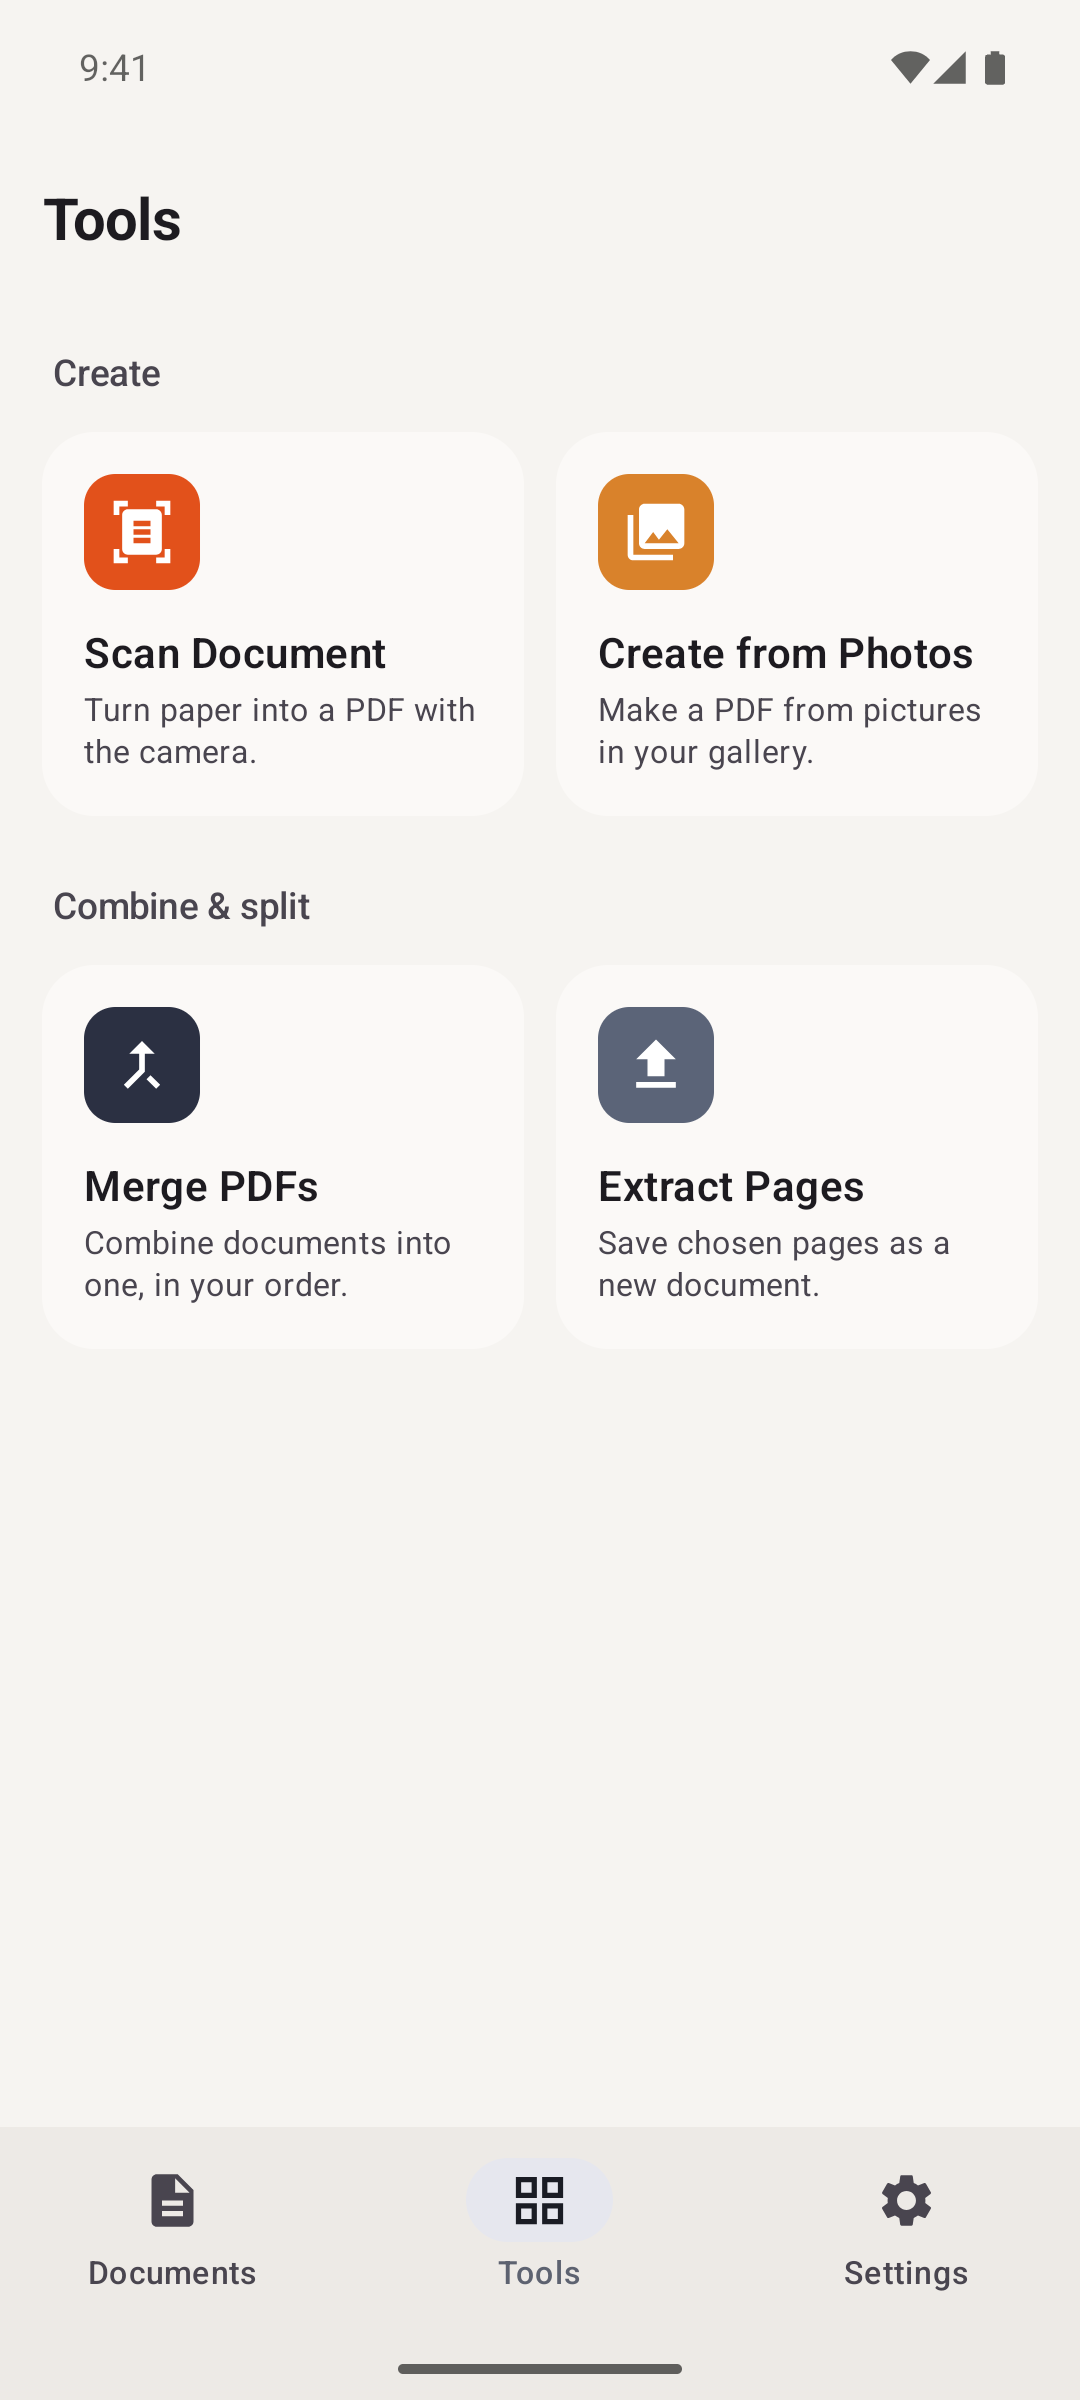
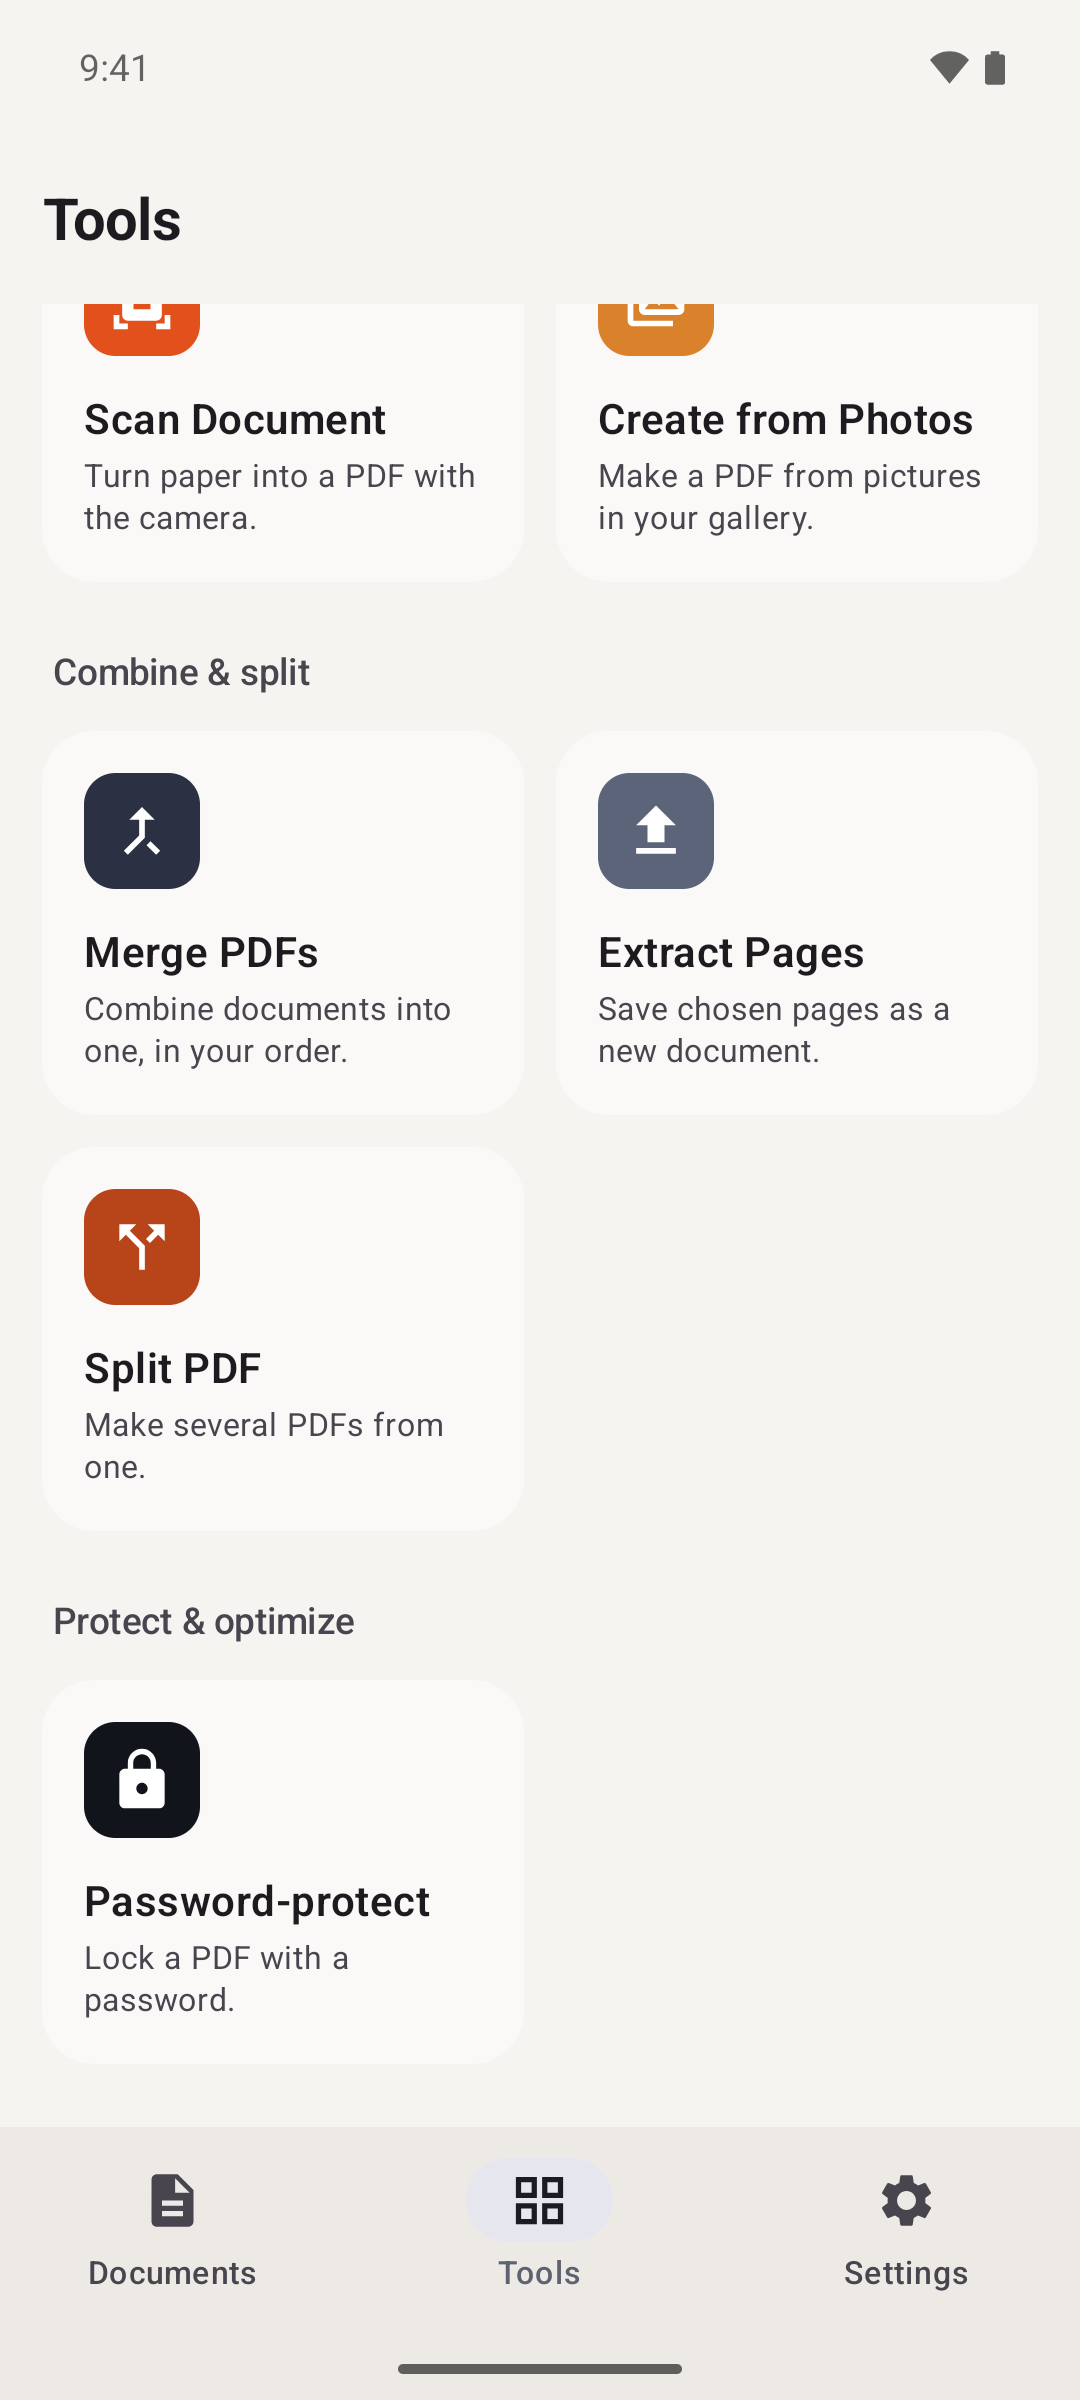
README, website and release notes for forms, Split PDF and passwords
Android 1.0.5 and desktop 1.3.0 in the status table and on the website.

diff --git a/Website/index.html b/Website/index.html
@@ -27,7 +27,7 @@
   <div class="hero-grid">
     <div class="pitch">
       <h1>Your documents, finished where you are.</h1>
-      <p>Read, merge, edit and sign PDFs on iPhone, iPad, Android, Mac, Windows and Linux. Everything stays on your device.</p>
+      <p>Read, merge, edit, fill in and sign PDFs on iPhone, iPad, Android, Mac, Windows and Linux. Everything stays on your device.</p>
       <div class="cta">
         <a class="button soon" href="#get">Get the app</a>
         <a class="button ghost" href="https://github.com/Fahed-Alhammadi/PDFoundry">View the source</a>
@@ -35,7 +35,7 @@
     </div>
     <div class="phones">
       <img class="phone back" src="assets/android-library.png" alt="The PDFoundry document library on Android">
-      <img class="phone front" src="assets/08-signed.png" alt="A signed rental agreement in PDFoundry on iPhone">
+      <img class="phone front" src="assets/08-fill-sign.png" alt="A form filled in and signed in PDFoundry on iPhone">
     </div>
   </div>
 </header>
@@ -49,16 +49,16 @@
         <p>Open PDFs from your files, email or browser. A PDF you open from your files stays where you keep it; nothing is copied. Scan paper with the camera or build a PDF from photos. Search the text of any document.</p>
       </article>
       <article>
-        <h3>Merge</h3>
-        <p>Pick two or more documents, put them in order, and join them into a single PDF. The Tools tab also saves the pages you choose as a new PDF, without changing the original.</p>
+        <h3>Merge and split</h3>
+        <p>Pick two or more documents, put them in order, and join them into a single PDF. Split one into single pages, every few pages or the ranges you type, or save just the pages you choose. The original never changes. Lock any PDF with a password, and keep editing it with the password you set.</p>
       </article>
       <article>
         <h3>Edit</h3>
         <p>Highlight, underline or strike through the text you select, type notes and draw on the page. Markup, Fill &amp; Sign and Pages each keep their own tools in the reader's bar. Reorder, rotate, duplicate, extract or delete pages, and undo what you change. On a phone your changes are saved to the same file as you make them, and Revert to Original puts it back as it was when you opened it.</p>
       </article>
       <article>
-        <h3>Sign</h3>
-        <p>Draw your signature once and reuse it. Drag it onto the line, resize it, and place it. It shows in every PDF reader.</p>
+        <h3>Fill in and sign</h3>
+        <p>Type into a PDF's own form fields and tick its boxes; they stay real form fields that other apps can still change. Draw your signature and initials once and reuse them, add today's date, a tick or a cross, and drag each one onto the line. It shows in every PDF reader.</p>
       </article>
     </div>
   </section>
@@ -66,7 +66,7 @@
   <section id="screens">
     <h2>On iPhone and iPad</h2>
     <div class="shots">
-      <figure><img src="assets/04-place-signature.png" alt="Placing a signature on iPhone" loading="lazy"><figcaption>Place a signature</figcaption></figure>
+      <figure><img src="assets/08-fill-sign.png" alt="A form filled in and signed on iPhone" loading="lazy"><figcaption>Fill in and sign</figcaption></figure>
       <figure><img src="assets/05-pages.png" alt="Organizing pages on iPhone" loading="lazy"><figcaption>Organize pages</figcaption></figure>
       <figure><img src="assets/09-tools.png" alt="The Tools tab on iPhone" loading="lazy"><figcaption>Tools</figcaption></figure>
       <figure><img src="assets/01-library.png" alt="The document library on iPhone" loading="lazy"><figcaption>Your library</figcaption></figure>
@@ -76,7 +76,7 @@
   <section>
     <h2>On Android</h2>
     <div class="shots">
-      <figure><img src="assets/android-signed.png" alt="A signed and highlighted document on Android" loading="lazy"><figcaption>Sign and highlight</figcaption></figure>
+      <figure><img src="assets/android-fill-sign.png" alt="A form filled in and signed on Android" loading="lazy"><figcaption>Fill in and sign</figcaption></figure>
       <figure><img src="assets/android-pages.png" alt="Organizing pages on Android" loading="lazy"><figcaption>Organize pages</figcaption></figure>
       <figure><img src="assets/android-tools.png" alt="The Tools tab on Android" loading="lazy"><figcaption>Tools</figcaption></figure>
       <figure><img src="assets/android-library.png" alt="The document library on Android" loading="lazy"><figcaption>Your library</figcaption></figure>
@@ -87,7 +87,7 @@
     <h2>On Mac, Windows and Linux</h2>
     <p class="lede">On a computer, PDFoundry works the way you expect a desktop program to. A PDF opens where you keep it, and it changes only when you press Save. Save As makes a new file and leaves the original alone.</p>
     <div class="desk-shots">
-      <figure><img src="assets/desktop-markup.png" alt="Markup tools and a text highlight in PDFoundry on a computer" loading="lazy"><figcaption>Mark up the text</figcaption></figure>
+      <figure><img src="assets/desktop-form.png" alt="A form being filled in with PDFoundry on a computer" loading="lazy"><figcaption>Fill in forms</figcaption></figure>
       <figure><img src="assets/desktop-tools.png" alt="The Tools page in PDFoundry on a computer" loading="lazy"><figcaption>Tools</figcaption></figure>
     </div>
   </section>
@@ -103,12 +103,12 @@
       <article>
         <h3>Android</h3>
         <p class="state">Coming soon to Google Play</p>
-        <p>Version 1.0.4 is in closed testing. Requires Android 8 or later.</p>
+        <p>Version 1.0.5 is in closed testing. Requires Android 8 or later.</p>
       </article>
       <article>
         <h3>Mac, Windows and Linux</h3>
         <p class="state">Available now, free</p>
-        <p>Version 1.2.0. The Mac app is signed and notarized by Apple, and the app keeps itself up to date.</p>
+        <p>Version 1.3.0. The Mac app is signed and notarized by Apple, and the app keeps itself up to date.</p>
         <a class="button download" href="https://github.com/Fahed-Alhammadi/PDFoundry/releases/latest">Download</a>
       </article>
     </div>

diff --git a/README.md b/README.md
@@ -4,7 +4,7 @@
 
 # PDFoundry
 
-**Read, merge, edit and sign PDFs. Private, on your device, with no account.**
+**Read, merge, edit, fill in and sign PDFs. Private, on your device, with no account.**
 
 Apps for iPhone, iPad, Android, macOS, Windows and Linux.
 
@@ -19,7 +19,7 @@ Apps for iPhone, iPad, Android, macOS, Windows and Linux.
 <br>
 
 <img src="screenshots/ios/iphone-6.9/01-library.png" width="23%" alt="Document library on iPhone">
-<img src="screenshots/ios/iphone-6.9/08-signed.png" width="23%" alt="A signed and highlighted document on iPhone">
+<img src="screenshots/ios/iphone-6.9/08-fill-sign.png" width="23%" alt="A form filled in and signed on iPhone">
 <img src="screenshots/ios/iphone-6.9/05-pages.png" width="23%" alt="Page organizer on iPhone">
 <img src="screenshots/ios/iphone-6.9/09-tools.png" width="23%" alt="The Tools tab on iPhone">
 
@@ -45,7 +45,7 @@ Apps for iPhone, iPad, Android, macOS, Windows and Linux.
 
 ## Overview
 
-PDFoundry is a small PDF app that does four jobs well: reading, merging, editing and signing. It works entirely on the device. There is no account, no server, no advertising and no analytics. The phone apps make no network requests; the desktop app goes online only to check for its own updates.
+PDFoundry is a small PDF app that does a few jobs well: reading, merging and splitting, editing, filling in forms, signing and password protection. It works entirely on the device. There is no account, no server, no advertising and no analytics. The phone apps make no network requests; the desktop app goes online only to check for its own updates.
 
 The phone apps are native: Swift and SwiftUI on iPhone and iPad, Kotlin and Jetpack Compose on Android. The desktop app is built with Electron and runs on macOS, Windows and Linux. On every platform a PDF opens where you keep it, with no copy made. The desktop app works the way desktop PDF programs do and changes the file only when you choose Save. The phone apps save each change to the same file as you make it, and can put the file back as it was when you opened it.
 
@@ -54,8 +54,8 @@ The phone apps are native: Swift and SwiftUI on iPhone and iPad, Kotlin and Jetp
 | Platform | Version | Status |
 |---|---|---|
 | iPhone and iPad | 1.0.0 | Submitted to the App Store, waiting for review. Available to testers on TestFlight |
-| Android | 1.0.4 | In closed testing on Google Play |
-| macOS, Windows and Linux | 1.2.0 | Released. [Download](https://github.com/Fahed-Alhammadi/PDFoundry/releases/latest). The Mac app is signed and notarized |
+| Android | 1.0.5 | In closed testing on Google Play |
+| macOS, Windows and Linux | 1.3.0 | Released. [Download](https://github.com/Fahed-Alhammadi/PDFoundry/releases/latest). The Mac app is signed and notarized |
 
 Store links for the phone apps will be added here and on the [website](https://fahed-alhammadi.github.io/PDFoundry/) when the apps are public.
 
@@ -66,19 +66,21 @@ Store links for the phone apps will be added here and on the [website](https://f
 | **Read** | Open a PDF where it is in Files, or receive one from Mail, Safari or the share sheet. Search the text. Scroll vertically or sideways | Open a PDF where it is with the file picker, or receive one from any app's share menu. Search the text. Pinch to zoom | Open a PDF where it is, or drop it onto the window. Search the text. Zoom |
 | **Scan and create** | Scan paper with the camera. Build a PDF from photos | Scan paper with Google's document scanner. Build a PDF from photos | Build a PDF from images. No scanning |
 | **Merge** | Select documents, drag them into order, merge | Select documents, order them with arrows, merge | Select documents, order them with arrows, merge |
-| **Tools** | A Tools tab: Scan Document, Create from Photos, Merge PDFs, Extract Pages | Same | A Tools page in the sidebar: Create from Images, Merge PDFs, Extract Pages |
+| **Split** | Split a PDF into every page, every few pages, or the page ranges you type. The original is not changed | Same | Same, into a folder you choose |
+| **Tools** | A Tools tab: Scan Document, Create from Photos, Merge PDFs, Extract Pages, Split PDF, Password-protect | Same | A Tools page in the sidebar: Create from Images, Merge PDFs, Extract Pages, Split PDF, Password-protect |
 | **Reader** | A bar with three labelled groups: Markup, Fill & Sign and Pages, plus Undo | Same | Same |
 | **Markup** | Select text, then highlight (four colours), underline or strike through | Same | Same |
 | **Text and drawing** | Type anywhere. Draw with a finger or Apple Pencil | Type anywhere (Arabic shapes correctly). Draw with a finger or stylus, or with a highlighter pen | Type anywhere (Arabic shapes correctly). Draw with the mouse or a pen, or with a highlighter pen |
-| **Sign** | Draw once in black or blue ink, reuse, drag and resize before placing | Same | Same |
+| **Fill & Sign** | Signature, Initials, Text, Date, ✓ and ✗. Draw a signature or initials once, reuse them, drag and resize before placing | Same (✓ and ✗ share one Mark button on narrow phones) | Same |
+| **Forms** | Fill in a PDF's own form fields: text, check boxes, radio buttons, lists, and signature fields. Values stay real form fields, so other apps can still read and change them | Same | Same |
 | **Pages** | Reorder by dragging. Rotate, duplicate, extract, delete, add blank pages | Reorder with arrows. Rotate, duplicate, extract, delete, add blank pages | Reorder by dragging or with arrows. Rotate, duplicate, extract, delete, add blank pages |
 | **Undo** | Tap any mark to remove it, or undo recent edits. Revert to Original puts the file back as it was when you opened it | Undo the last ten changes while the document is open. Revert to original puts the file back as it was when you opened it | Undo the last ten changes; nothing is written until you save |
 | **Manage** | Rename, duplicate, share, print, delete. A file opened where it is can be removed from the list or copied into the app; the file itself is not touched. A file opened twice is listed once | Same | Save, Save As, print. A list of recent files |
 | **Storage** | Files you open stay where you keep them, and changes are saved to the same file. Scans, new PDFs and received files go in the app's folder in Files | Files you open stay where you keep them, and changes are saved to the same file. Scans, new PDFs and received files are kept inside the app | Files stay where you keep them. Changes are written when you choose Save |
-| **Protected PDFs** | Open with the password, read-only | Open with the password, read-only | Open with the password, read-only |
+| **Passwords** | Protect a PDF with a password (Tools or the reader's More menu), or remove it. A protected PDF can be edited once you enter its password, and every save keeps it | Same | Same |
 | **Permissions** | Camera, asked only when you tap Scan Document | None | None. Goes online only to check for its own updates |
 
-On every platform, signatures and edits are written into the PDF itself, so they look the same in every other PDF reader. Password-protected documents open read-only so their protection is never removed.
+On every platform, signatures and edits are written into the PDF itself, so they look the same in every other PDF reader. Passwords are used only while a document is open: they are never stored, and a protected file keeps its password after every edit. A file whose owner restricts changes, with a separate owner password you don't have, opens read-only.
 
 ## Screenshots
 
@@ -87,7 +89,7 @@ On every platform, signatures and edits are written into the PDF itself, so they
 <p>
   <img src="screenshots/ios/ipad-13/01-library.png" width="32%" alt="Document library on iPad">
   <img src="screenshots/ios/ipad-13/07-tools.png" width="32%" alt="The Tools tab on iPad">
-  <img src="screenshots/ios/ipad-13/05-pages.png" width="32%" alt="Page organizer on iPad">
+  <img src="screenshots/ios/ipad-13/02-fill-sign.png" width="32%" alt="A form filled in and signed on iPad">
 </p>
 
 **macOS, Windows and Linux**
@@ -95,17 +97,19 @@ On every platform, signatures and edits are written into the PDF itself, so they
 <p>
   <img src="screenshots/desktop/01-library.png" width="49%" alt="Recent files on the desktop">
   <img src="screenshots/desktop/02-signed.png" width="49%" alt="A signed and highlighted document on the desktop">
-  <img src="screenshots/desktop/09-markup.png" width="49%" alt="Markup tools and a text highlight on the desktop">
+  <img src="screenshots/desktop/15-form.png" width="49%" alt="A form being filled in on the desktop">
   <img src="screenshots/desktop/11-tools.png" width="49%" alt="The Tools page on the desktop">
+  <img src="screenshots/desktop/13-split.png" width="49%" alt="Split PDF on the desktop">
+  <img src="screenshots/desktop/14-protect.png" width="49%" alt="Password-protect on the desktop">
 </p>
 
 **Android**
 
 <p>
   <img src="screenshots/android/phone/01-library.png" width="23%" alt="Document library on Android">
-  <img src="screenshots/android/phone/02-signed.png" width="23%" alt="A signed and highlighted document on Android">
-  <img src="screenshots/android/phone/04-pages.png" width="23%" alt="Page organizer on Android">
+  <img src="screenshots/android/phone/02-fill-sign.png" width="23%" alt="A form filled in and signed on Android">
   <img src="screenshots/android/phone/07-tools.png" width="23%" alt="The Tools tab on Android">
+  <img src="screenshots/android/phone/09-split.png" width="23%" alt="Split PDF on Android">
 </p>
 
 ## Tech stack
@@ -171,10 +175,15 @@ npm start
 | Add a document | **+** in the library: Open from Files, Scan Document, or Create from Photos | **+** in the library: Open PDF, Scan document, or Create from photos | **Open**, or drop a PDF on the window. Create from images is in the **…** menu |
 | Merge | **Tools > Merge PDFs**, or **Select** in the library, choose documents, tap the merge button | **Tools > Merge PDFs**, or press and hold to select, choose documents, tap the merge button | **Tools > Merge PDFs**, or **Select**, choose files, **Merge**, then say where to save |
 | Extract pages | **Tools > Extract Pages**, pick a document, tick pages, **Extract**. The original is not changed | Same | Same, then say where to save |
+| Split | **Tools > Split PDF**, pick a document, choose every page, every N pages or custom ranges, **Split**. The parts are named "(part 1)", "(part 2)" and so on | Same | Same, then choose a folder |
+| Protect with a password | **Tools > Password-protect**, or **…** then **Protect with Password** in the reader. Type the password twice. It can't be recovered if you forget it | **Tools > Password-protect**, or **⋮** then **Protect with Password** | **Tools > Password-protect**, or **…** then **Protect with Password** |
+| Remove a password | Open the document with its password, then **…** then **Remove Password** | **⋮** then **Remove Password** | **…** then **Remove Password** |
 | Highlight, underline, strike through | **Markup**, then the tool, then select the words | **Markup**, then the tool, then drag across the words | **Markup**, then the tool, then select the words |
 | Add text | **Markup** or **Fill & Sign**, then **Text**, type, drag the text into place, tap **Place** | Same | Same |
 | Draw | **Markup**, then **Draw**, draw, tap **Done** | Same | Same |
-| Sign | **Fill & Sign**, then **Signature**, draw or pick a signature, position it, tap **Place**. The bar stays in Fill & Sign for the next one | Same | Same |
+| Fill in a form | Tap a field and type, or tap a box to tick it | Same | Click a field and type, then **Save** |
+| Sign | **Fill & Sign**, then **Signature** (or **Initials**), draw or pick one, position it, tap **Place**. Tapping a signature field signs it directly. The bar stays in Fill & Sign for the next one | Same | Same |
+| Date, tick or cross | **Fill & Sign**, then **Date**, **✓** or **✗**, position it, tap **Place** | Same | Same |
 | Edit pages | **Pages** in the reader's bar | **Pages** in the reader's bar | **Pages** in the bar, the grid button in the toolbar, or **View > Organize Pages** |
 | Remove an edit | Tap it, then **Delete** | Tap **Undo** | **Undo** |
 | Undo everything since opening | **…** then **Revert to Original** | **⋮** then **Revert to original** | Close without saving |
